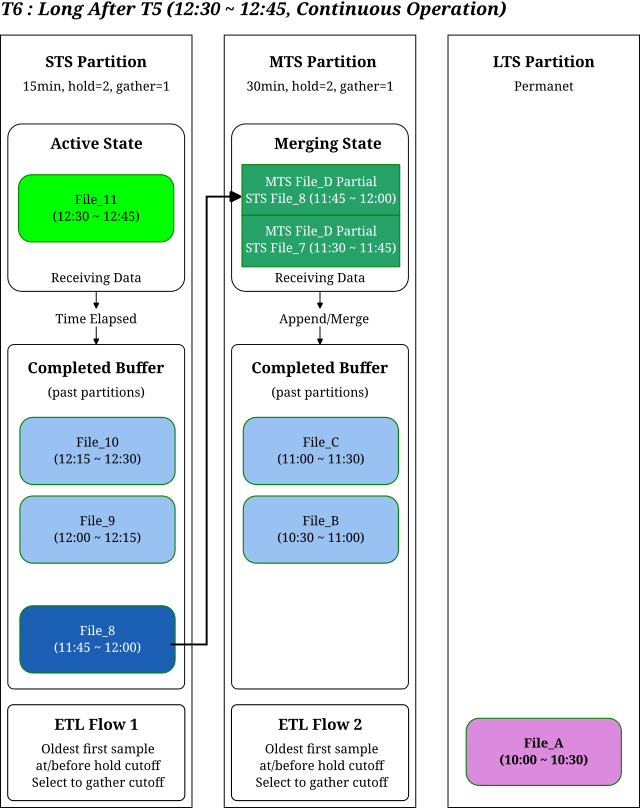
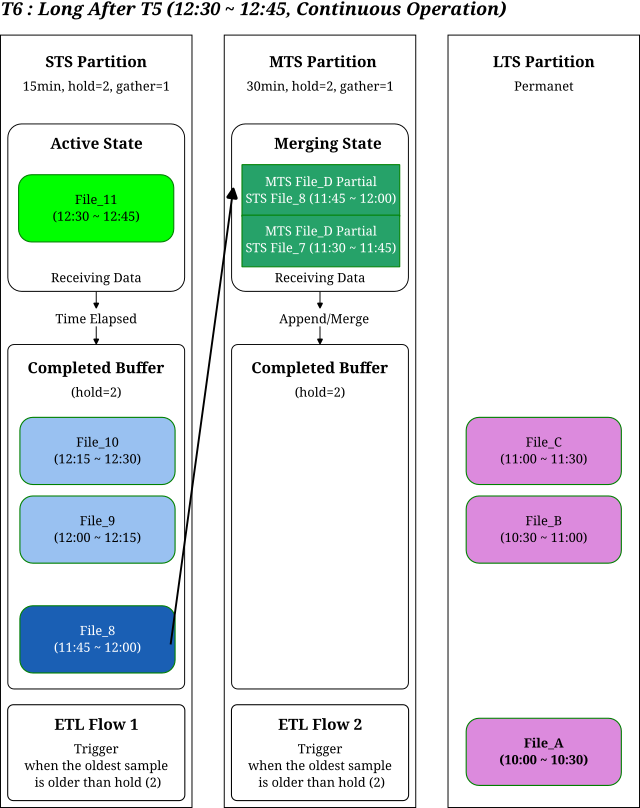
Restore the storage and data-journey guides and fix the hold semantics
The previous revision described `hold` as a count of completed files; the
implementation derives an age boundary from the partition duration, so the
guide and the artwork now follow the source. The published figures were also
not reproducible from the committed SVG, because their arrows are auto-routed
connectors; regenerating them from it settles that.

diff --git a/docs/README.policies.md b/docs/README.policies.md
@@ -16,15 +16,6 @@ The Archiver Appliance manages data through a sophisticated tiered storage model
 
 Beyond storage, this document explores the system's data processing capabilities, distinguishing between real-time retrieval operations and permanent ETL-based data reduction (`reducedata`, `pp`). Finally, it provides a deep dive into the `policies.py` script, clarifying how sampling methods (Monitor vs. Scan) and field archiving rules are defined, applied, and managed throughout the service lifecycle.
 
-## Scope
-
-This document covers the storage tier architecture (STS/MTS/LTS), URL-style data store parameters (`partitionGranularity`, `hold`, `gather`), retrieval-time and ETL-time data processing operators, and the `policies.py` script for sampling rules and field archiving.
-
-**Out of scope:**
-* The retrieval REST API specification and web UI configuration.
-* Operational deployment, system installation, and service management — see the project [README](../README.md).
-* Conceptual ETL timeline and `hold`/`gather` interaction visualisation — see [README.DataJourney.md](README.DataJourney.md).
-
 ## 1. Storage Tier Architecture
 The Archiver Appliance utilizes a tiered storage strategy to balance high-speed data acquisition with long-term capacity management. Data moves between these tiers via the ETL service.
 
@@ -77,50 +68,50 @@ In the Archiver Appliance, data is stored in `.pb` (Protocol Buffer) files. Befo
 * The time duration defined by `partitionGranularity` for this file has not yet elapsed.
 
 #### 2.2.2 Completed State
-* This state refers to a `.pb` file in a partition before the current partition.
-* Elapsed partition time does not guarantee a complete set of samples or prevent later transfers from appending data to that partition.
-* **ETL eligibility**: `PlainPBStoragePlugin.getETLStreams` selects paths before the current partition. It compares their first sample timestamps with the `hold` and `gather` time boundaries; it does not count completed files to trigger a transfer.
+* This state refers to a `.pb` file that has completely stored data for the entire duration defined by `partitionGranularity`.
+* Once the time elapses, the file is closed and considered a complete archive unit.
+* **Important**: Only files in this completed state are subject to the `hold` parameter and subsequent ETL migration. The `hold` boundary is applied to these fully formed, archived data files waiting to be moved.
 
 ### 2.3 ETL Flow Control
 These parameters manage the movement of data between storage tiers. This process primarily interacts with files in the **Completed State**.
 
 #### 2.3.1 Definition of ETL Cycle
 * The ETL Cycle is the specific operation where the ETL service moves a batch of data files (`.pb`) from one storage tier to the next (e.g., `STS` → `MTS`).
-* Three parameters determine which available files are eligible during an ETL evaluation:
-    1. **Unit**: `partitionGranularity` defines partition boundaries and their approximate duration.
-    2. **Trigger**: The oldest candidate's first sample must be at or before the `hold` time boundary.
-    3. **Transfer range**: First sample timestamps at or before the `gather` time boundary are selected.
+* It is dynamically defined by the interaction of three key parameters:
+    1.  **Unit**: The size of a single file, defined by `partitionGranularity`.
+    2.  **Trigger**: The cycle starts when the oldest sample still in the tier is older than `hold` partitions.
+    3.  **Batch Size**: The transfer boundary is set by `gather`, which commonly moves `gather` partitions per cycle.
 
 #### 2.3.2 Retention Period (`hold`)
 * This parameter is directly related to the `partitionGranularity` setting.
-* The implementation subtracts `hold * approximate partition duration` from the ETL evaluation time, then finds the last second of the partition preceding that time. This is the `hold` boundary.
-* Missing data partitions do not postpone eligibility until a fixed number of files exists. Eligibility depends on the oldest available sample's age.
+* Specifies an **age**, not a file count: the implementation subtracts `hold` times the approximate partition duration from the ETL evaluation time and takes the last second of the preceding partition as the boundary. A file becomes eligible when its first sample is at or before that boundary.
+* Example: with `partitionGranularity=PARTITION_HOUR` and `hold=6`, data becomes eligible to leave once its oldest sample is about six hours old. A gap in the data does not postpone this; eligibility follows the oldest available sample's age, not how many files have accumulated.
 
 #### 2.3.3 Batch Move Size (`gather`)
 * This parameter is related to both the `partitionGranularity` and `hold` settings.
-* The implementation computes a second boundary using `hold - (gather - 1)` partition durations, then selects eligible files whose first samples are at or before that boundary.
-* For continuous data and an ETL run at each partition boundary, this commonly moves `gather` partitions. A delayed ETL run can select more files; missing partitions can result in fewer.
+* The implementation computes a second boundary at `hold - (gather - 1)` partition durations and selects the files whose first samples are at or before it.
+* Example: with `hold=6` and `gather=4`, continuous data and an ETL run at each partition boundary commonly moves 4 partitions. A delayed run can select more; missing partitions can yield fewer.
 
 #### 2.3.4 Flow Constraints (`hold` vs. `gather`)
-* Use nonnegative values with `hold >= gather`; equality is allowed by the implementation.
-* The setters reject `gather > hold` with an `IOException`.
-* Both values default to zero. With `hold=0` and `gather=0`, the implementation skips the hold/gather boundaries and selects available candidates before the current partition.
+* Use nonnegative values with `hold >= gather`. Equality is allowed: the implementation rejects only `gather > hold`.
+* `setHoldETLForPartions` and `setGatherETLinPartitions` throw an `IOException` when `hold - gather` would be negative.
+* Both default to zero. With `hold=0` and `gather=0` the implementation skips these boundaries and takes the available candidates before the current partition.
 
 #### 2.3.5 Configuration Strategies and Impact
 The behavior of the Archiver Appliance varies significantly based on how `hold` and `gather` are configured.
 
 * **Scenario A: Without `hold` and `gather` (Unconfigured)**
-    * The zero defaults add no hold/gather retention delay to ETL candidates.
-    * File partitioning still follows `partitionGranularity`; omitting retention settings does not itself make file generation irregular.
+    * No retention delay: both parameters default to zero, so the implementation skips the hold and gather boundaries and moves the available candidates out as soon as the partition boundary is reached.
+    * File generation is unaffected: partitioning still follows `partitionGranularity`. Leaving these settings out does not by itself make file creation irregular; it removes the delay before ETL takes the completed files.
 
 * **Scenario B: With `hold` & `gather` (Custom Configuration)**
-    * Retention: `hold` delays ETL eligibility by partition age; `gather` controls the transfer boundary once the oldest candidate is eligible.
-    * Storage Tuning: A larger `hold` retains older samples in the source tier for longer; storage capacity and retrieval workload determine whether that is useful.
+    * Consistency: Both data movement and data visualization become consistent and predictable.
+    * Performance Tuning: A larger `hold` is beneficial when data extraction requires optimized reading performance from the storage media (by keeping more recent data in the faster tier before moving it).
     * As noted in flow constraints, setting `gather > hold` will immediately cause an `IOException`.
 
-* **Scenario C: Shipped Configuration**
-    * The site template uses `hold=2&gather=1` for STS and MTS.
-    * This is the configured retention policy, not a measured guarantee of optimal performance for every storage medium.
+* **Scenario C: Optimized Configuration (Recommended)**
+    * Best Practice: The setting `hold=2&gather=1` is recommended as the smoothest configuration for ETL data movement and data display.
+    * This setting is particularly effective and recommended when the `STS` and `MTS` storage media are identical (e.g., both utilize the same high-speed storage volume).
 
 ## 3. Data Processing & Reduction
 The Archiver Appliance utilizes the **Apache Commons Math** library to perform statistical analysis and data reduction. This processing capability is applied in two distinct stages:
@@ -237,16 +228,31 @@ The `policies.py` script defines the logic for how different Process Variables (
 ### 4.1 Standard Policy Configurations
 The system provides a set of predefined policies mapped to specific sampling rates and storage strategies. The policy is determined by the `determinePolicy` function.
 
-`MONITOR` archives whenever the PV value changes (within the sampling period limit). `SCAN` forces a data read at fixed intervals regardless of value changes.
+#### 4.1.1 Monitor-Based Policies
+These policies use the `MONITOR` sampling method, meaning data is archived whenever the PV value changes (within the sampling period limit).
 
-| Policy | Method | Sampling Rate | LTS Reduction |
-| :--- | :--- | :--- | :--- |
-| Default | MONITOR | 1.0 s (1 Hz) | None (standard retention) |
-| VeryFast | MONITOR | 0.1 s (10 Hz) | `lastSample_10` (10 s) |
-| Fast | MONITOR | 1.0 s (1 Hz) | `lastSample_30` (30 s) |
-| Medium | MONITOR | 10.0 s | `lastSample_60` (60 s) |
-| Slow | SCAN | 60.0 s | `lastSample_180` (180 s) |
-| VerySlow | SCAN | 900.0 s (15 min) | None |
+* **Default**
+    * Sampling: 1.0 second (1 Hz)
+    * LTS Reduction: None (Standard retention)
+* **VeryFast**
+    * Sampling: 0.1 second (10 Hz)
+    * LTS Reduction: Reduced to 10 seconds (`lastSample_10`)
+* **Fast**
+    * Sampling: 1.0 second (1 Hz)
+    * LTS Reduction: Reduced to 30 seconds (`lastSample_30`)
+* **Medium**
+    * Sampling: 10.0 seconds
+    * LTS Reduction: Reduced to 60 seconds (`lastSample_60`)
+
+#### 4.1.2 Scan-Based Policies
+These policies use the `SCAN` sampling method, forcing a data read at fixed intervals regardless of value changes.
+
+* **Slow**
+    * Sampling: 60.0 seconds
+    * LTS Reduction: Reduced to 180 seconds (`lastSample_180`)
+* **VerySlow**
+    * Sampling: 900.0 seconds (15 minutes)
+    * LTS Reduction: None
 
 ### 4.2 Controlled Archiving
 Policies with the "Controlled" suffix allow archiving to be paused or resumed dynamically based on an external signal.
@@ -258,28 +264,45 @@ Policies with the "Controlled" suffix allow archiving to be paused or resumed dy
 ### 4.3 Field Archiving Logic
 In addition to the main value (`.VAL`), the archiver captures auxiliary fields to provide operational context (limits, drive values, etc.). The list of archived fields is determined dynamically based on the EPICS Record Type (`RTYP`).
 
-| Group | Fields | Applicable RTYPs |
-| :--- | :--- | :--- |
-| A. Standard Limits | `HIHI`, `HIGH`, `LOW`, `LOLO`, `LOPR`, `HOPR` | `ai`, `calc`, `calcout`, `longin`, `dfanout`, `sub` |
-| B. Limits with Drive Values | A + `DRVH`, `DRVL` | `ao`, `longout` |
-| C. Motor Specific | A + `VELO`, `RBV` | `motor` |
+#### 4.3.1 Group A: Standard Limits
+Records in this group archive the standard alarm limits and operating ranges.
+* **Fields**: `HIHI`, `HIGH`, `LOW`, `LOLO`, `LOPR`, `HOPR`
+* **Applicable RTYPs**:
+    * `ai` (Analog Input)
+    * `calc`, `calcout` (Calculation)
+    * `longin` (Long Input)
+    * `dfanout` (Data Fanout)
+    * `sub` (Subroutine)
 
-#### Global Stream Fields
-The system defines a default set of fields considered part of every PV stream structure regardless of RTYP.
+#### 4.3.2 Group B: Limits with Drive Values
+Output records often include drive limits in addition to the standard operating limits.
+* **Fields**: Group A Fields + `DRVH` (Drive High), `DRVL` (Drive Low)
+* **Applicable RTYPs**:
+    * `ao` (Analog Output)
+    * `longout` (Long Output)
 
+#### 4.3.3 Group C: Motor Specific
+Motor records require velocity and readback information in addition to standard limits.
+* **Fields**: Group A Fields + `VELO` (Velocity), `RBV` (Readback Value)
+* **Applicable RTYPs**:
+    * `motor`
+
+#### 4.3.4 Global Stream Fields
+The system defines a default set of fields considered part of every PV stream structure.
 * **Default List**: `HIHI`, `HIGH`, `LOW`, `LOLO`, `LOPR`, `HOPR`, `DRVH`, `DRVL`.
 
 ## 5. Policy Application & Lifecycle
-The archiving logic defined in `policies.py` is evaluated when the management service computes policy for a PV.
+The archiving logic defined in `policies.py` is integrated into the system during the service initialization phase.
 
 ### 5.1 Loading Mechanism
-`DefaultConfigService` creates an `ExecutePolicy` object that reads and executes the policy text. The policy-computation cache expires one minute after creation and is rebuilt on a subsequent policy request. Listing available policies creates a separate `ExecutePolicy` instance.
+The policy script is loaded into the Java environment when each specific service (Management, Engine, ETL, Retrieval) starts up.
+The loading process is managed by `ConfigService.java` and `DefaultConfigService.java` within the `archiverappliance` source code.
 
 ### 5.2 Runtime vs. Build Time
 It is important to distinguish between the software build and the configuration application.
 * **Build Time**: The web application archives (WAR files: `mgmt.war`, `engine.war`, `etl.war`, `retrieval.war`) are created during the build process.
-* **Configuration**: The environment generates `policies.py` from the site template, copies it into the build overlay, and installs an external copy under `AA_INSTALL_LOCATION`.
-* **Policy Evaluation**: The configured external file takes precedence over the WAR's classpath copy. Changes can be read on a later policy evaluation without rebuilding the WARs.
+* **Startup Time**: The services run with the WAR files unzipped. The `policies.py` file is read from the external file system when the service starts, not baked into the build.
+* **Conclusion**: Policies are applied at service startup, allowing for configuration changes without rebuilding the software.
 
 ### 5.3 Configuration Path
 The system locates the policy script using a specific environment variable.
@@ -288,24 +311,43 @@ The system locates the policy script using a specific environment variable.
 * **Example**: `ARCHAPPL_POLICIES="/opt/epicsarchiverap-maven/policies.py"`
 
 ### 5.4 Update Workflow
-1. Update the active external `policies.py` identified by `ARCHAPPL_POLICIES`.
-2. After the one-minute computation cache expires, a subsequent policy evaluation reads the updated script. A service restart also discards the cache, but is not required solely to reload the script.
-3. Check the resulting policy when requesting a PV to be archived. Reloading the script does not by itself rewrite the stored sampling or storage settings of PVs that are already archived.
-
-The loading and ETL descriptions follow `DefaultConfigService`, `ExecutePolicy`,
-and `PlainPBStoragePlugin` in aa-maven `35282494`.
+Since the policy file is loaded only at initialization, changes to `policies.py` are not applied dynamically.
+1.  **Shutdown**: Stop the Archiver Appliance services.
+2.  **Modification**: Edit or replace the `policies.py` file at the path defined by `ARCHAPPL_POLICIES`.
+3.  **Startup**: Start the services to load and apply the new logic.
 
 ## 6. Storage Media & Hardware Recommendations
-The media-specific rows are configuration examples, not measured performance guarantees. The final three rows show the actual defaults in `site-template/policies.py.in`. Dashes indicate that the template omits the parameter for the final LTS tier.
+The selection of `partitionGranularity`, `hold`, and `gather` should be optimized based on the physical storage media being used.
 
-| Media | Tier | `partitionGranularity` | `hold` | `gather` | Notes |
-| :--- | :--- | :--- | :---: | :---: | :--- |
-| SATA | STS | `PARTITION_HOUR` | 5 | 1 | RAM file system or high-RAM host (64 GB+) |
-| SATA | MTS | `PARTITION_DAY` | 2 | 1 | |
-| SATA | LTS | `PARTITION_MONTH` | — | — | |
-| NVMe (M.2) | STS | `PARTITION_DAY` | 2 | 1 | |
-| NVMe (M.2) | MTS | `PARTITION_MONTH` | 2 | 1 | |
-| NVMe (M.2) | LTS | `PARTITION_YEAR` | — | — | Live data; migrate to recovery storage after 1/3/5 years |
-| **Shipped default** | STS | `PARTITION_HOUR` | 2 | 1 | `consolidateOnShutdown=true` |
-| **Shipped default** | MTS | `PARTITION_MONTH` | 2 | 1 | |
-| **Shipped default** | LTS | `PARTITION_YEAR` | — | — | No `pp` or `reducedata` for the Default policy |
+### 6.1 SATA Disk (Local Storage)
+* **STS Configuration**:
+    * Recommended for RAM file systems or high-RAM environments (64GB+).
+    * `partitionGranularity`: `HOUR`
+    * `hold`: 5
+    * `gather`: 1
+* **MTS Configuration**:
+    * `partitionGranularity`: `DAY`
+    * `hold`: 2
+    * `gather`: 1
+* **LTS Configuration**:
+    * `partitionGranularity`: `MONTH`
+
+### 6.2 NVMe (M.2) Storage
+* **STS Configuration**:
+    * `partitionGranularity`: `DAY`
+    * `hold`: 2
+    * `gather`: 1
+* **MTS Configuration**:
+    * `partitionGranularity`: `MONTH`
+    * `hold`: 2
+    * `gather`: 1
+* **LTS Configuration**:
+    * `partitionGranularity`: `YEAR` (Live data)
+    * Recommendation: Move to recovery storage after 1, 3, or 5 years depending on the experiment requirements.
+
+### 6.3 Final Recommended Default Policy
+For a standard robust deployment, the following parameters are recommended to ensure reliability and performance:
+
+* **STS**: `PARTITION_HOUR`, `hold=2`, `gather=1`, `consolidateOnShutdown=true`
+* **MTS**: `PARTITION_DAY`, `hold=2`, `gather=1`
+* **LTS**: `PARTITION_YEAR`, `pp=mean_3600`

diff --git a/docs/README.DataJourney.md b/docs/README.DataJourney.md
@@ -16,13 +16,6 @@ The Archiver Appliance utilizes a three-tiered storage strategy to balance high-
 
 The crucial logic determining **when and how much data to move** between these tiers is defined by the ETL rules: `hold` and `gather`.
 
-## Scope
-
-This document walks through a single concrete timeline (T1–T6) to show how the `hold` and `gather` parameters trigger data movement between STS, MTS, and LTS over time.
-
-**Out of scope:**
-* Numeric reference and parameter taxonomy — see [README.policies.md](README.policies.md).
-* Operational deployment, system installation, and service management — see the project [README](../README.md).
 
 ## 1. Storage Tiers and File Units
 
@@ -42,89 +35,86 @@ Data moves through the following stages:
 Data files exist in one of two states based on time:
 
 * **Active State:** The file is currently being written to, and its defined time duration has not yet elapsed.
-* **Completed State:** The file belongs to a partition before the current partition. It can be an ETL candidate; its first sample timestamp is compared with the retention boundaries.
+* **Completed State:** The time duration has passed, and the file is closed. ETL movement rules (`hold`) apply ONLY to these 'Completed' files.
 
 
 ## 2. Data Movement Rules: ETL Flow Control
 
-The rules for moving data between tiers are dictated by the `hold` and `gather` parameters. This example uses `hold=2` and `gather=1`.
+The rules for moving data between tiers are dictated by the `hold` and `gather` parameters. This explanation uses the recommended configuration of `hold=2` and `gather=1`.
 
 The central logic guiding the movement is:
 
-**Core rule: compare the first sample in each candidate file with time boundaries derived from the ETL evaluation time and the partition duration. File count is not the trigger.**
+**Core Rule: "When the number of completed files exceeds the `hold` value (`Count > Hold`), initiate a move of the oldest files amounting to the `gather` count."**
 
-* The `hold` boundary is the last second of the partition preceding `evaluation time - hold * approximate partition duration`.
-* The `gather` boundary uses `hold - (gather - 1)` partition durations in the same calculation. Once the oldest candidate satisfies `hold`, candidates whose first samples are at or before the gather boundary are selected.
-* *Constraint:* Use nonnegative values with `hold >= gather`; equality is allowed. With both zero, the hold/gather boundary checks are skipped.
-* Missing partitions and delayed ETL runs change the number of files selected. The figures show the continuous-data scenario below; their hold and gather cutoffs are timestamps, not file counts.
-
-This description follows `PlainPBStoragePlugin.getETLStreams` and
-`TimeUtils.getPreviousPartitionLastSecond` in aa-maven `35282494`.
+* `hold=2` (Buffer Size): The ETL process waits until there are more than 2 (i.e., 3 or more) completed files in the current tier's buffer before acting.
+* `gather=1` (Batch Move Size): Once the trigger condition above is met, the single oldest file is selected to be moved to the next tier.
+* *Constraint:* The `hold` value must always be greater than the `gather` value.
 
 ## 3. Timeline Scenario: A Day in the Life of Data
 
 Let's trace the journey of data with a concrete timeline to visualize the flow.
 
 **Scenario Settings:**
-* Start Time: 10:00:00 UTC, with a sample at each partition start and no missing partitions
+* Start Time: 10:00:00 AM
 * STS Partition: 15 minutes
 * MTS Partition: 30 minutes
 * ETL Rule: `hold=2`, `gather=1`
-* Evaluation schedule: one ETL evaluation exactly at each 15-minute boundary; actual scheduling can delay a transfer
 
 ### [T1] 10:00:00 - 10:15:00 (The First 15 Minutes)
 * **STS:** The first file, `File_1 (10:00-10:15)`, is created. Data is actively being written to it (Active State).
 
-![T1: the first 15 minutes](./figures/T1.png)
-
-*Figure 1 — T1, The First 15 Minutes*
+|![T1](./figures/T1.png)|
+| :---: |
+|**Figure 1** T1, The First 15 Minutes|
 
 ### [T2] 10:15:00 - 10:30:00 (The Second 15 Minutes)
 * **STS:** `File_1` completes its 15-minute span and moves to the Completed buffer.
     * Completed Buffer Count: 1 (`File_1`).
-    * *Action at 10:15:* No move; the hold boundary is 09:44:59, earlier than `File_1`'s first sample at 10:00.
+    * *Action:* No move takes place yet, as the buffer count (1) is not greater than the `hold` value (2).
 * **STS:** A new file, `File_2 (10:15-10:30)`, begins writing (Active State).
 
-![T2: the second 15 minutes](./figures/T2.png)
-
-*Figure 2 — T2, The Second 15 Minutes*
+|![T2](./figures/T2.png)|
+| :---: |
+|**Figure 2** T2, The Second 15 Minutes|
 
 ### [T3] 10:30:00 - 10:45:00 (The Third 15 Minutes)
 * **STS:** `File_2` completes and enters the buffer.
     * Completed Buffer Count: 2 (`File_1`, `File_2`).
-    * *Action at 10:30:* No move; the hold boundary is 09:59:59, still earlier than `File_1`'s first sample.
+    * *Action:* Still no move takes place, as the count (2) is not *greater* than the `hold` value (2).
 * **STS:** A new file, `File_3 (10:30-10:45)`, begins writing.
 
-![T3: the third 15 minutes](./figures/T3.png)
-
-*Figure 3 — T3, The Third 15 Minutes*
+|![T3](./figures/T3.png)|
+| :---: |
+|**Figure 3** T3, The Third 15 Minutes|
 
 ### [T4] Just After 10:45:00 (ETL Trigger Moment)
 * **STS:** `File_3` completes and enters the buffer.
     * Completed Buffer Count: 3 (`File_1`, `File_2`, `File_3`).
-    * *Trigger at 10:45:* The hold and gather boundaries are both 10:14:59. `File_1`'s first sample is before that boundary; the first samples in `File_2` and `File_3` are later.
-    * *Action:* `File_1 (10:00-10:15)` is selected for transfer to MTS.
-* **MTS:** `File_1` supplies the first half of the 30-minute partition covering `10:00-10:30`. That time partition has already ended; later STS transfers can still append data to it.
+    * *Trigger:* The buffer count (3) is now greater than the `hold` value (2), satisfying the condition to move data.
+    * *Action:* The ETL process initiates. Based on the `gather=1` setting, the single oldest file, `File_1 (10:00-10:15)`, is moved to MTS.
+* **MTS:** `File_1` arrives in MTS. It becomes the first half (Active State) of a new 30-minute partition covering `10:00-10:30`.
 
-![T4: ETL trigger moment, just after 10:45:00](./figures/T4.png)
-
-*Figure 4 — T4, Just After 10:45:00*
+|![T4](./figures/T4.png)|
+| :---: |
+|**Figure 4** T4, Just After 10:45:00|
 
 
 ### [T5] Just After 11:00:00 (MTS Consolidation)
-* **STS:** At 11:00 the boundaries advance to 10:29:59, so `File_2 (10:15-10:30)` becomes eligible for transfer to MTS.
+* **STS:** The cycle continues. A new file completes in STS, triggering the move of the next oldest file, `File_2 (10:15-10:30)`, to MTS.
 * **MTS:** `File_2` arrives and is merged/appended with the waiting `File_1`.
-* **Result:** The MTS file now contains both 15-minute contributions for `10:00-10:30`. Its onward eligibility uses the MTS partition duration, first sample timestamp, and ETL evaluation time; completion of the append is not a separate count-based trigger.
+* **Result:** A complete 30-minute file for the total period `10:00-10:30` is formed. This new file moves to the MTS Completed buffer, where it will wait for the MTS `hold` trigger before eventually moving to LTS.
 
-![T5: MTS consolidation, just after 11:00:00](./figures/T5.png)
-
-*Figure 5 — T5, Just After 11:00:00*
+|![T5](./figures/T5.png)|
+| :---: |
+|**Figure 5** T5, Just After 11:00:00|
 
 
 ### [T6] Long After T5 (Continuous Operation)
 
 After a longer period, the system reaches a steady state where both STS and MTS buffers are full, and data is being continuously moved to LTS as new files are created. This final image illustrates the complete end-to-end data flow.
 
-![T6: continuous operation, long after T5](./figures/T6.png)
+|![T6](./figures/T6.png)|
+| :---: |
+|**Figure 6** T6, Long After T5|
 
-*Figure 6 — T6, Long After T5*
+
